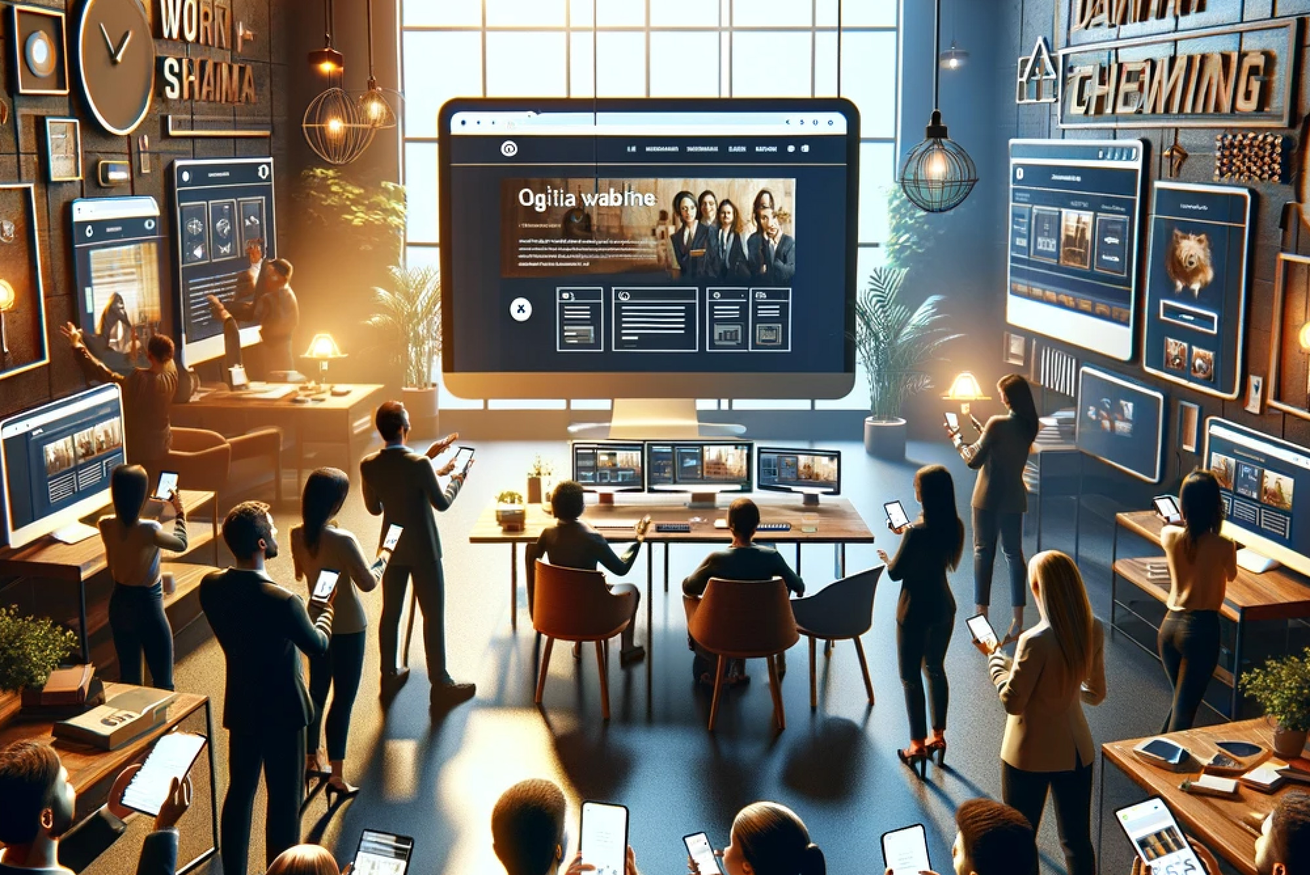
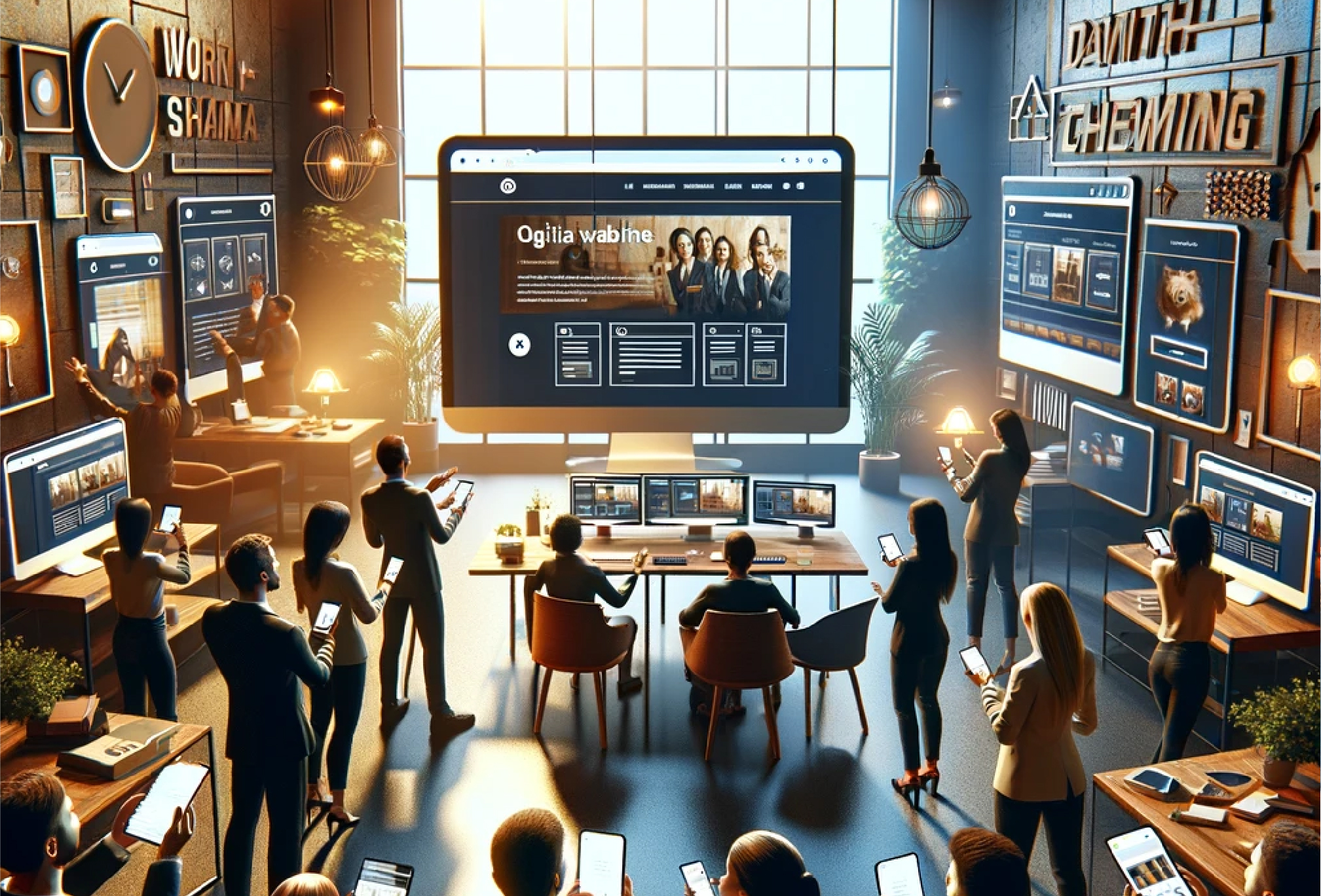
Updated blog images

diff --git a/src/app/data/blogItems.js b/src/app/data/blogItems.js
@@ -4,7 +4,7 @@ const blogItems = [
         featuredID:0,
         type:"blog",
         subtype:"",
-        number:"02",
+        number:"03",
         featured:"false",
         featuredHREF:"/blog/ai-web-design-future",
         featuredURL:"/ blog",
@@ -13,8 +13,8 @@ const blogItems = [
         date:"2024-03-05",
         title: "The Future of AI in Web Design",
         description: "Explore the future of web design with AI! Our latest blog unveils how AI is revolutionizing the way we create and experience the web, from personalized user experiences to automated design processes. Dive into the possibilities and join the conversation on shaping a more intuitive and inclusive digital future.",
-        src: '/image/blog/50.png',
-        srcThumbnail: '/image/blog/50.png',
+        src: '/image/blog/50.jpg',
+        srcThumbnail: '/image/blog/50.jpg',
         isButtonActive:'true',
         buttonText:'read post',
         buttonHref:'/blog/ai-web-design-future',
@@ -26,7 +26,7 @@ const blogItems = [
         featuredID:0,
         type:"blog",
         subtype:"",
-        number:"01",
+        number:"02",
         featured:"true",
         featuredHREF:"/blog/importance-of-website",
         featuredURL:"/ blog",
@@ -40,6 +40,28 @@ const blogItems = [
         isButtonActive:'true',
         buttonText:'read post',
         buttonHref:'/blog/importance-of-website',
+        list: [
+        ],
+    },
+    {
+        id:3,
+        featuredID:0,
+        type:"blog",
+        subtype:"",
+        number:"01",
+        featured:"false",
+        featuredHREF:"/blog/ai-powered-personalization",
+        featuredURL:"/ blog",
+        featuredHeader:"featured blog",
+        featuredButtonLabel:"Read post",
+        date:"2024-03-14",
+        title: "AI-Powered Personalization: Transforming Digital Properties into Unique User Journeys",
+        description: "This post explores the transformative power of AI-powered personalization for your digital properties. It underscores the importance of leveraging AI and technology to deliver customized experiences at scale, ensuring businesses stay competitive in the digital age.",
+        src: '/image/blog/52.jpg',
+        srcThumbnail: '/image/blog/52.jpg',
+        isButtonActive:'true',
+        buttonText:'read post',
+        buttonHref:'/blog/ai-powered-personalization',
         list: [
         ],
     },

diff --git a/src/app/data/promoItems.js b/src/app/data/promoItems.js
@@ -2,7 +2,7 @@ const promoItems = [
     {
         id:0,
         headline: "Welcome to BP",
-        title: '',
+        title: 'Where digital content intersects with a mastery of storytelling',
         source: "",
         text: " Our digital content creation company leverages cutting-edge AI and innovative technology to craft dynamic, engaging content that resonates deeply with your audience, creating memorable experiences that connect and convert.",
         actionText: "",
@@ -14,6 +14,15 @@ const promoItems = [
         title: 'Why do videos perform better than images?',
         source: "https://databox.com/videos-vs-images-in-facebook-ads",
         text: "Over 67% surveyed said that video drives more engagement than images.  The key factor that emerged is the ability of videos to capture user attention more effectively than static images.  In fact, a significant number of respondents, accounting for the majority in favor of video content, pointed out this higher potential for user engagement.",
+        actionText: "",
+        buttonLabel: '',
+    },
+    {
+        id:2,
+        headline: "Did you know?",
+        title: 'Study Shows Over 80% of Consumers Prioritize Corporate Website Research Before Making Purchases',
+        source: "Data sourced via ChatGPT",
+        text: "In today's digital age, a significant percentage of consumers rely on a company's corporate website as a crucial resource before making purchasing decisions. Studies suggest that over 80% of consumers conduct online research, including browsing a company's website, to gather information about products or services they intend to buy. With the ease of access to information online, a well-designed and informative corporate website plays a pivotal role in shaping consumer perceptions and influencing their purchasing behavior. Therefore, companies must prioritize maintaining an engaging and user-friendly online presence to effectively capture potential customers' interest and trust.",
         actionText: "",
         buttonLabel: '',
     },

diff --git a/src/app/components/promo.js b/src/app/components/promo.js
@@ -16,10 +16,11 @@ export default function Promo(props) {
                     <div
                         key={filteredItem.id}
                         >
-                        <section className="flex flex-col md:px-0 px-6 mx-auto max-w-5xl">
+                        <section className="flex flex-col md:px-0 px-6 mx-auto max-w-7xl">
                             <div className="">
                                 <div className='font-bebasNeue text-4xl text-gray.800 pb-4 uppercase'>{filteredItem.headline}</div>
-                                <div className="text-gray.600 text-lg pb-2 ">{filteredItem.text}</div>
+                                <div className="text-gray.700 pb-2 font-raleway text-2xl font-medium">{filteredItem.title}</div>
+                                <div className="text-gray.600 pb-2 ">{filteredItem.text}</div>
                                 <div className="text-gray.400 text-xs ">{filteredItem.source}</div>
                             </div>
                         </section>

diff --git a/src/app/blog/page.js b/src/app/blog/page.js
@@ -18,7 +18,7 @@ export default function Blog() {
                     <Hero id={4}/>
                 </div>
                 <BlogItem type="blog"/>
-                <Promo id={1}/>
+                <Promo id={2}/>
             </section>
         </>
     )

diff --git a/src/posts/ai-powered-personalization.md b/src/posts/ai-powered-personalization.md
@@ -1,0 +1,55 @@
+---
+title: "AI-Powered Personalization: Transforming Digital Properties into Unique User Journeys"
+date: "2024-03-14"
+type: "blog"
+description: 'This post explores the transformative power of AI-powered personalization in revolutionizing digital properties, highlighting its impact on user engagement, sales, and customer retention. It underscores the importance of leveraging AI and technology to deliver customized experiences at scale, ensuring businesses stay competitive in the digital age.'
+isFeatured: 'false'
+imageSource: '/image/blog/52.jpg'
+tag: '#AIWebDesign #FutureOfDesign #Innovation '
+alt: 'AI-Powered Personalization'
+author: 'Roger Katona / AI'
+authorDescription: 'An innovative digital content creator, AI collaborator with a passion for storytelling.'
+authorImageSource: '/image/blog/blog-author.jpg'
+ogURL: 'https://www.blueprospect.com/blog/ai-web-design-future'
+ogType: 'blog'
+ogImage: 'https://www.blueprospect.com/image/blog/52.jpg'
+---
+
+
+# AI-Powered Personalization: Transforming Digital Properties into Unique User Journeys
+
+In the rapidly evolving digital landscape, AI-powered personalization is not just a trend; it's revolutionizing how businesses interact with their audiences. By leveraging cutting-edge AI technologies, companies can tailor their digital properties, from websites to apps, to meet the unique preferences and needs of each visitor. This transformation is rooted in data, analytics, and the ever-increasing capabilities of artificial intelligence, leading to unparalleled user experiences and significantly boosted engagement metrics.
+
+## Enhanced User Engagement Through Personalized Content
+
+Studies have shown that personalized content dramatically increases user engagement. According to a report by Epsilon, personalized email campaigns result in a 29% higher email open rate and 41% higher click rates compared to non-personalized emails. Translating this to web properties, AI can analyze user behavior in real-time, offering content recommendations that are relevant and engaging to each individual. This not only boosts user satisfaction but also increases the likelihood of conversion.
+
+## Driving Sales with Tailored Recommendations
+
+The power of AI-driven personalization extends significantly into the e-commerce sector. Amazon's recommendation engine, arguably the most famous example, accounts for 35% of the company's sales, as reported by McKinsey. By analyzing past purchase history, browsing patterns, and user ratings, AI algorithms can suggest products that the customer is more likely to buy, enhancing the shopping experience and increasing sales revenue.
+
+## Improved Customer Retention Rates
+
+Personalization goes beyond attracting new customers; it plays a crucial role in retaining them. A study by Accenture found that 91% of consumers are more likely to shop with brands that recognize, remember, and provide relevant offers and recommendations. AI-powered personalization fosters a sense of being valued and understood, encouraging repeat visits and loyalty.
+
+## Real-Time Personalization at Scale
+
+One of the most significant advantages of AI in personalization is its ability to operate in real-time and at scale. Traditional segmentation methods fall short in today's fast-paced digital world. AI algorithms can process vast amounts of data instantly, adjusting content, recommendations, and offers for millions of users simultaneously. This capability ensures that every user interaction is as relevant and engaging as possible, no matter how large the audience.
+
+## Reducing Churn with Predictive Analytics
+
+AI's predictive analytics can foresee user disengagement and preemptively offer personalized incentives to reduce churn rates. By analyzing user activity patterns, AI can identify when a user's interest begins to wane and can trigger personalized offers or content to re-engage them. This proactive approach helps maintain a healthy and active user base.
+
+## Enhancing User Experience with Voice and Visual Search
+
+As voice and visual search technologies become more prevalent, AI-powered personalization will play a crucial role in adapting these searches to user preferences. Gartner predicts that by 2023, organizations that have redesigned their websites to support visual and voice search will increase digital commerce revenue by 30%. This adaptation to user behavior and preferences underscores the importance of personalization in the user experience.
+
+## Privacy Concerns and Ethical Personalization
+
+While the benefits of AI-powered personalization are immense, they do not come without challenges. Privacy concerns are at the forefront of the conversation. Transparent data practices and adherence to regulations like GDPR are essential in maintaining user trust while delivering personalized experiences.
+
+## The Future is Personalized
+
+The revolution of AI-powered personalization is well underway, transforming digital properties into dynamic, responsive environments that cater to the individual needs of each user. As technology advances, the possibilities for personalization will only expand, offering more sophisticated and nuanced user experiences. For businesses, the message is clear: embracing AI-powered personalization is no longer an option but a necessity to stay competitive and relevant in the digital age.
+
+In conclusion, AI-powered personalization is set to redefine the digital landscape, offering businesses unprecedented opportunities to engage with their customers in meaningful and profitable ways. By leveraging data, embracing new technologies, and prioritizing user privacy, companies can harness the full power of personalization to revolutionize their digital properties and, ultimately, their entire customer engagement strategy.

diff --git a/src/posts/ai-web-design-future.md b/src/posts/ai-web-design-future.md
@@ -4,7 +4,7 @@ date: "2024-03-05"
 type: "blog"
 description: 'Explore the future of web design with AI! Our latest blog unveils how AI is revolutionizing the way we create and experience the web, from personalized user experiences to automated design processes. Dive into the possibilities and join the conversation on shaping a more intuitive and inclusive digital future.'
 isFeatured: 'false'
-imageSource: '/image/blog/50.png'
+imageSource: '/image/blog/50.jpg'
 tag: '#AIinWebDesign #FutureOfDesign #Innovation '
 alt: 'Top 4 foundational Flexbox properties'
 author: 'Roger Katona / AI'
